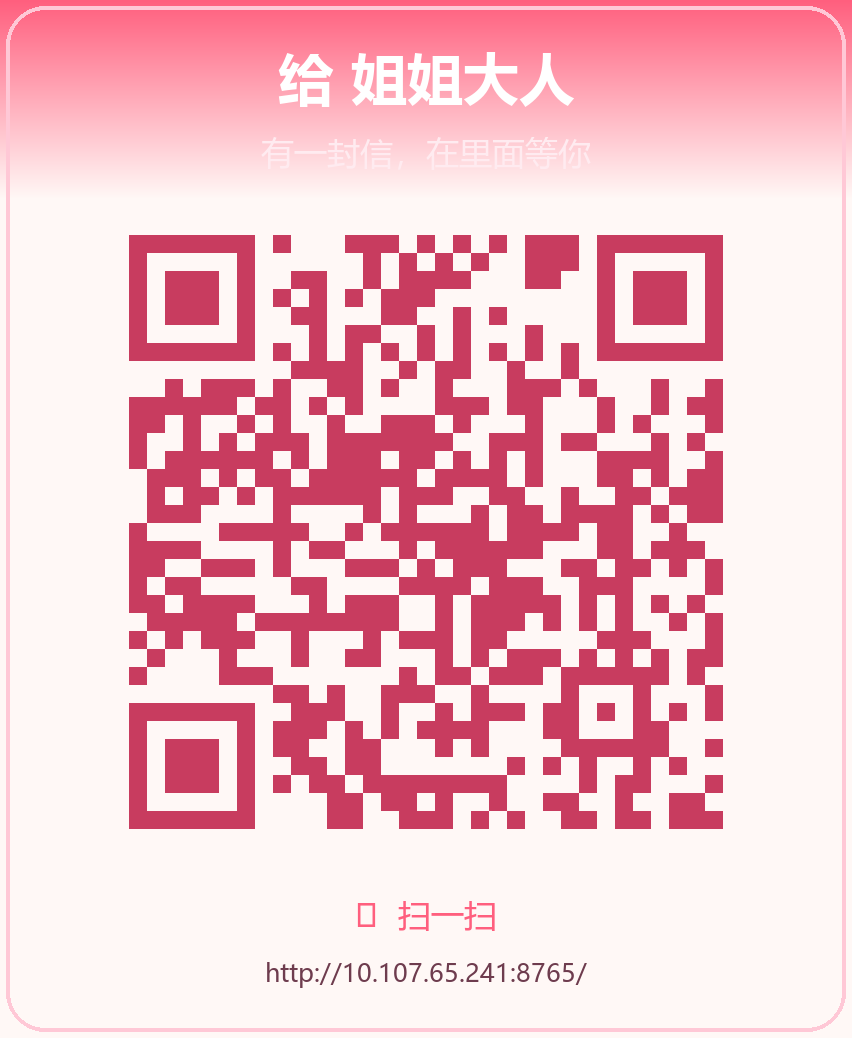
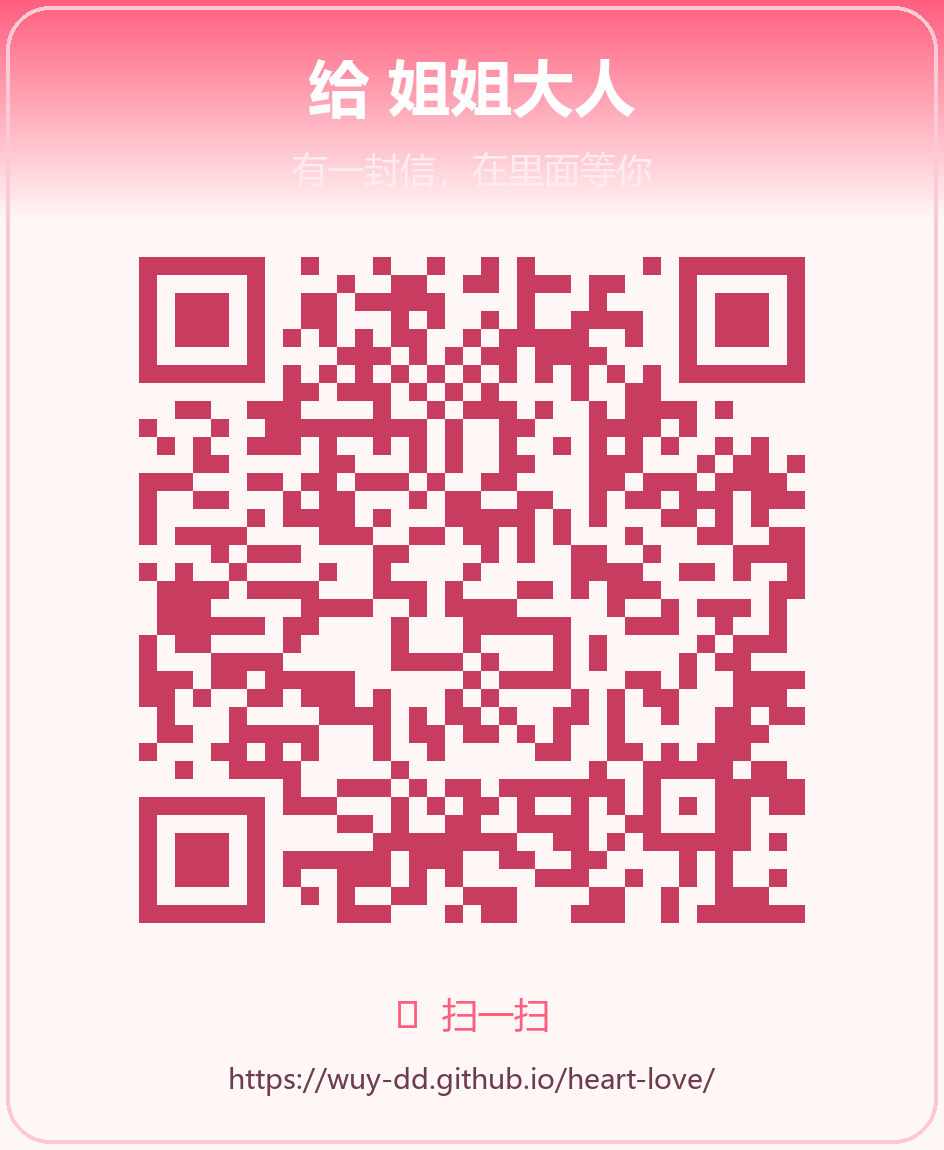
update public QR and README

diff --git a/README.md b/README.md
@@ -20,6 +20,38 @@ python server.py --share
 
 然后手机连同一个 WiFi，打开终端里显示的地址。
 
+正式使用已经部署到公网，所有网络都能打开：
+
+```text
+https://wuy-dd.github.io/heart-love/
+```
+
+## 更新内容并重新发布
+
+1. 照片放进 `photos/`，命名 `01.jpg`、`02.jpg`……
+2. 长信正文、照片配文、便利贴情话都在 `content.js` 里改。
+3. 本地预览：
+
+```bash
+python server.py
+```
+
+4. 生成新的公网二维码（可选）：
+
+```bash
+python qrcode_gen.py --url https://wuy-dd.github.io/heart-love/
+```
+
+5. 发布到 GitHub Pages：
+
+```bash
+git add -A
+git commit -m "update love page"
+git push origin main
+```
+
+等一两分钟，访问上面的公网地址即可看到最新内容。
+
 ## 秘密
 
 完整流程：
